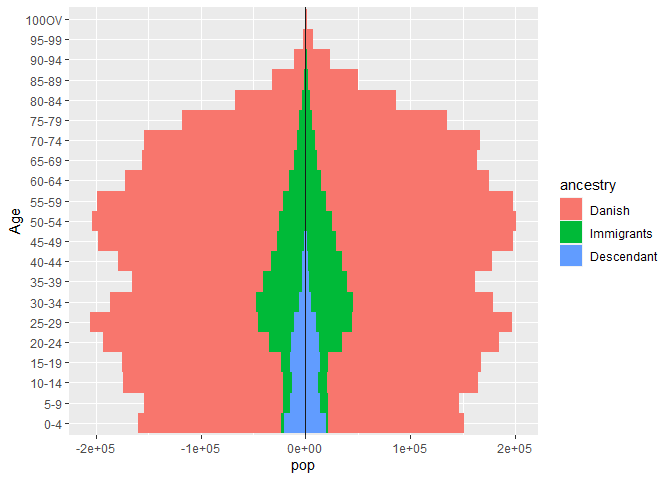
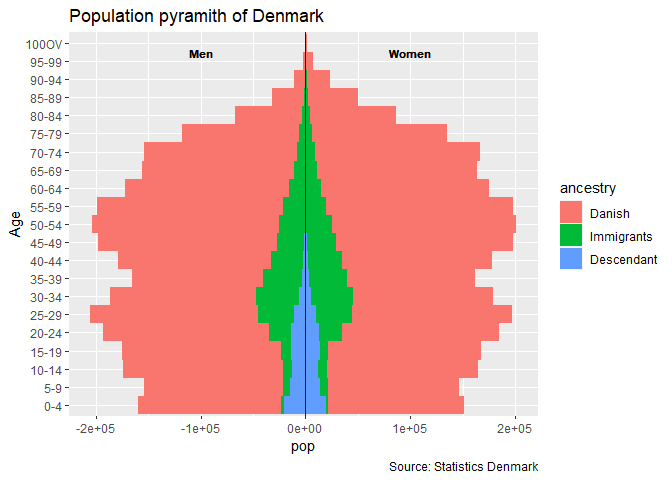
Update Readme

diff --git a/README.md b/README.md
@@ -25,8 +25,9 @@ Usage
       library(dint)
       library(forcats)
 
-I have download the population data from [Statistic
-Denmark](https://www.dst.dk/en), with the package *danstat*.
+As an example, I have downloaded some data from [Statistic
+Denmark](https://www.dst.dk/en) using the R-package
+[danstat](https://cran.r-project.org/web/packages/danstat/vignettes/Introduction_to_danstat.html).
 
 
     # Load data from Denmark using (danstat) ----
@@ -36,7 +37,7 @@ Denmark](https://www.dst.dk/en), with the package *danstat*.
     ## Define var_input
 
       # Codes
-      var_codes <- c("OMRÅDE", "KØN", "ALDER", "HERKOMST", "IELAND", "Tid")
+      var_codes <- c("OMRÅDE", "KØN", "ALDER", "HERKOMST", "Tid")
       
       # Values
       ## Region: Denmark
@@ -47,13 +48,10 @@ Denmark](https://www.dst.dk/en), with the package *danstat*.
       id_age <- subset(var_pop$values[[3]], id != "IALT")$id
       ## Ancestry
       id_ancestry <- c(5, 4, 3)
-      ## country of origin (remove total)
-      id_citizen <- as.numeric(var_pop$values[[5]]$id)
-      id_citizen <- id_citizen[id_citizen > 0]
       ## Quarters
       id_quarter <- "2020K4"
 
-      var_values <- list(id_region, id_gender, id_age , id_ancestry, id_citizen, id_quarter)
+      var_values <- list(id_region, id_gender, id_age , id_ancestry, id_quarter)
       var_input <- purrr::map2(.x = var_codes, .y = var_values, .f = ~list(code = .x, values = .y))
         
     # Get data 
@@ -62,7 +60,6 @@ Denmark](https://www.dst.dk/en), with the package *danstat*.
                gender = KØN,
                age = ALDER,
                ancestry = HERKOMST,
-               origin = IELAND,
                date = TID, 
                pop = INDHOLD) %>% 
         # Format date
@@ -79,22 +76,38 @@ Denmark](https://www.dst.dk/en), with the package *danstat*.
                age = gsub(" years", "", age),
                age = factor(age, levels = id_age))
 
-One we have the data we can plot the population pyramid:
+We can use the default settings for plotting the population pyramid:
 
 
     data %>% 
-      ggpyramid()
+      ggpyramid() 
 
-![](man/figures/README-pyramid_gender-1.png)<!-- --> We can also change
-the labels:
+![](man/figures/README-pyramid_gender-1.png)<!-- -->
+
+We can also use another variable for changing fill aesthetic
+(i.e. ancestry), and use standard *ggplot* function for adding
+additional layers:
 
 
     data %>% 
-      ggpyramid(fill = ancestry)
+      ggpyramid(fill = ancestry) +
+      labs(title = "Population pyramith of Denmark",
+           caption = "Source: Statistics Denmark") + 
+      annotate(geom = "text",
+               y = c(100000 , 100000),
+               x = 20.5,
+               label = "Women",
+               fontface = "bold",
+               size = 3) +
+      annotate(geom = "text",
+               y = c(-100000,-100000),
+               x = 20.5,
+               label = "Men",
+               fontface = "bold",
+               size = 3)
 
 ![](man/figures/README-pyramid_migrs-1.png)<!-- --> We can also plot the
-population in percentage, and use standard *ggplot* operations for
-tuning the plot:
+population in percentage:
 
 
       brks_y <- seq(-4, 4, 1)
